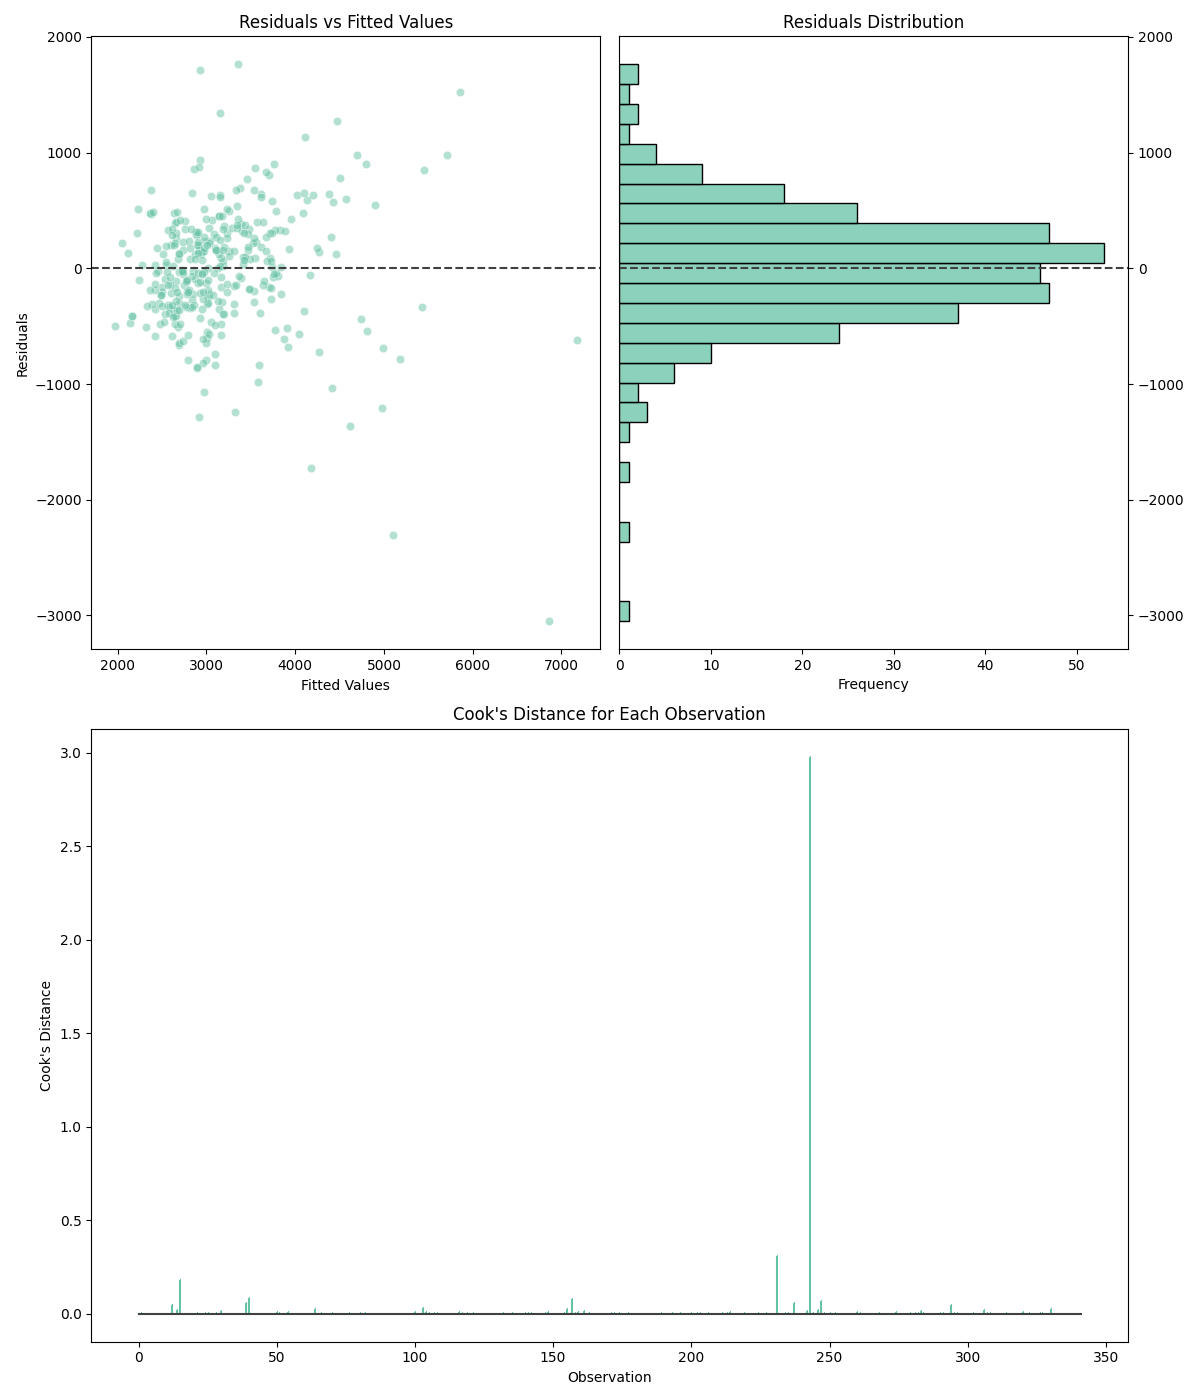
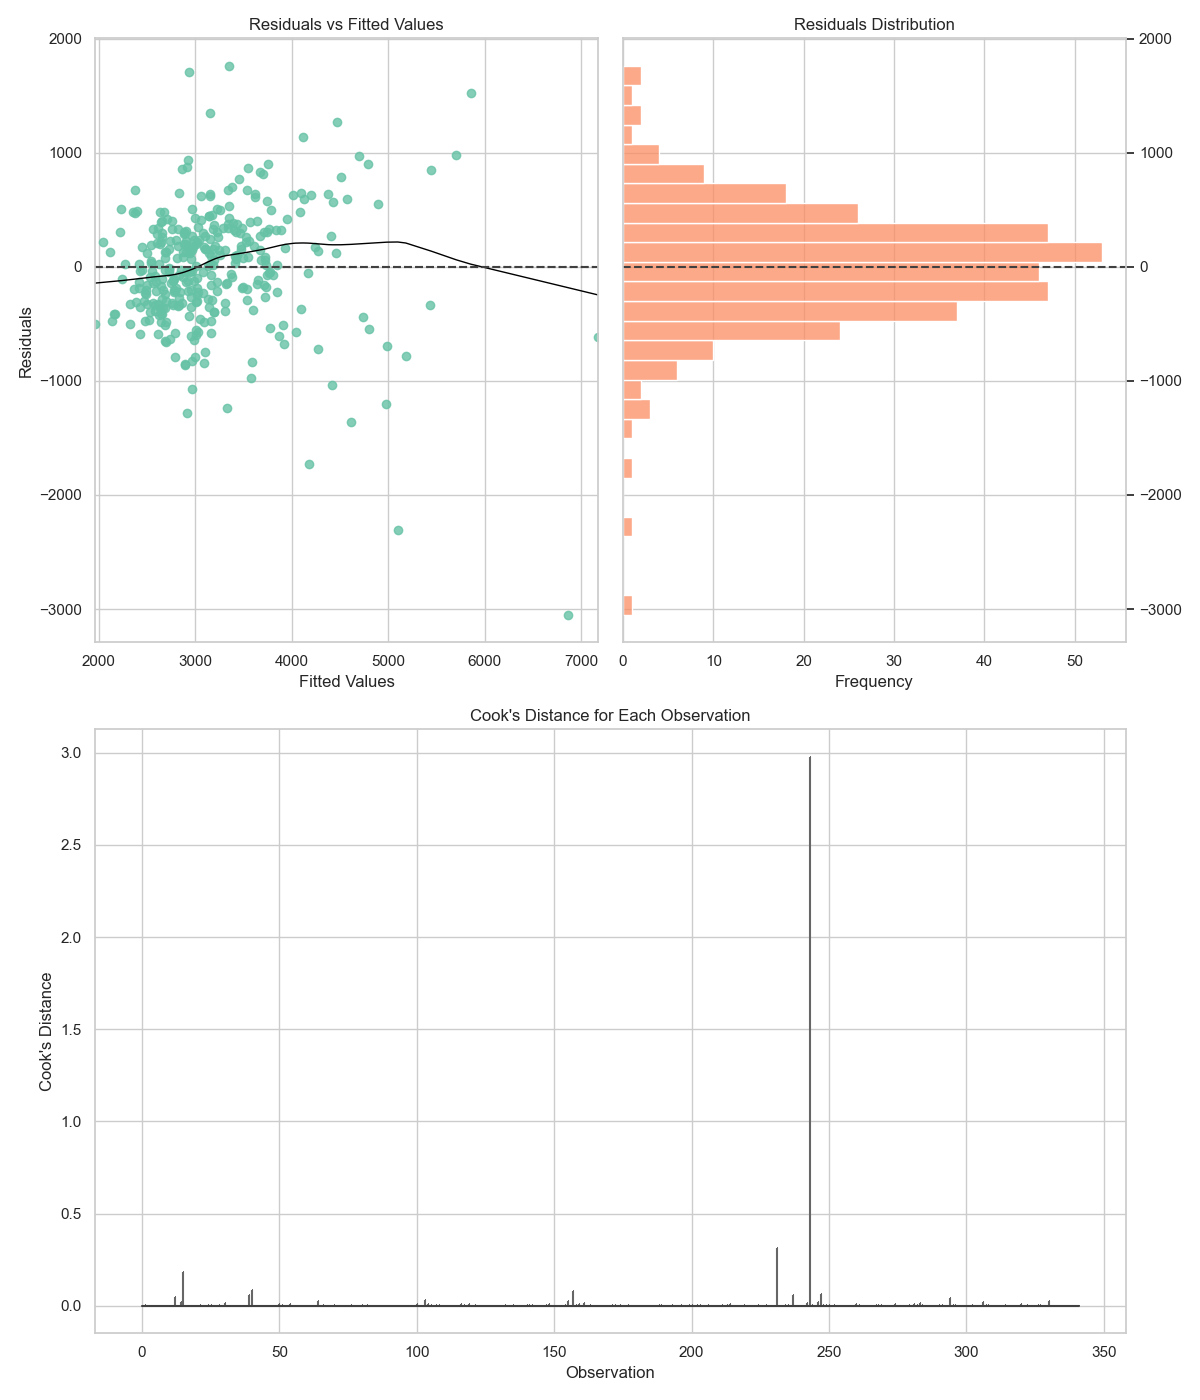
restyle plots

diff --git a/src/analysis/phase_1/plots.py b/src/analysis/phase_1/plots.py
@@ -24,8 +24,7 @@ def plots_station_no_station(df: pd.DataFrame) -> None:
 
     # Create boxplot to visualize the difference in m² prices
     plt.figure(figsize=(10, 6))
-    ax = sns.boxplot(data=df, x='has_station', y='m2_price', hue='has_station')
-    sns.boxplot(data=df, x='has_station', y='m2_price', hue='has_station')
+    ax = sns.boxplot(data=df, x='has_station', y='m2_price', hue='has_station', palette='Set2')
     plt.xlabel('Has Train Station')
     plt.ylabel('Average m² Price')
     plt.title('Comparison of m² Prices by Presence of Train Stations')
@@ -38,35 +37,57 @@ def plots_station_no_station(df: pd.DataFrame) -> None:
 
 def scatter_plots(df: pd.DataFrame) -> None:
     """
-    Create scatter plots of variables against m2_price.
+    Create scatter plots of variables along with distributions against m2_price and log variables against log_m2_price.
 
     Parameters:
         df: DataFrame with the main dataset
-    
+        output_path: Path to save the resulting plots
+
     Returns:
         None
     """
-    variables = ['log_avg_income', 'homes_per_capita', 'log_multy_family', 'log_distance']
+    variables = ['avg_income', 'homes_per_capita', 'multy_family', 'distance_to_urban_center']
+    log_variables = ['log_avg_income', 'homes_per_capita', 'log_multy_family', 'log_distance']
 
-    fig, axes = plt.subplots(nrows=4, ncols=2, figsize=(15, 20))
+    # First figure for original variables
+    fig, axes = plt.subplots(nrows=4, ncols=2, figsize=(15, 22))
 
-    axes = axes.flatten()
+    palette = sns.color_palette('Set2')
 
     for i, var in enumerate(variables):
-        axes[i].scatter(df[var], df['log_m2_price'], alpha=0.7, edgecolor='k')
-        axes[i].set_xlabel(var)
-        axes[i].set_ylabel('log_m2_price')
-        axes[i].set_title(f'{var} vs log_m2_price')
-    
-    for i in range(4, 8):
-        sns.histplot(df[variables[i-4]], kde=True, ax=axes[i])
-        axes[i].set_xlabel(variables[i-4])
-        axes[i].set_ylabel('Frequency')
-        axes[i].set_title(f'Distribution of {variables[i-4]}')
+        # Scatter plot
+        sns.scatterplot(x=df[var], y=df['m2_price'], ax=axes[i, 0], color=palette[1], edgecolor='k', alpha=0.7)
+        axes[i, 0].set_xlabel(var)
+        axes[i, 0].set_ylabel('m2_price')
+        axes[i, 0].set_title(f'{var} vs m2_price')
+        
+        # Distribution plot
+        sns.histplot(df[var], kde=True, ax=axes[i, 1], color=palette[0])
+        axes[i, 1].set_xlabel(var)
+        axes[i, 1].set_ylabel('Frequency')
+        axes[i, 1].set_title(f'Distribution of {var}')
 
     plt.tight_layout(rect=[0, 0, 1, 0.96])
+    plt.savefig(os.path.join(output_path, 'scatter_plots_original.png'))
 
-    plt.savefig(os.path.join(output_path, 'scatter_plots.png'))
+    # Second figure for log-transformed variables
+    fig, axes = plt.subplots(nrows=4, ncols=2, figsize=(15, 22))
+
+    for i, log_var in enumerate(log_variables):
+        # Scatter plot
+        sns.scatterplot(x=df[log_var], y=df['log_m2_price'], ax=axes[i, 0], color=palette[1], edgecolor='k', alpha=0.7)
+        axes[i, 0].set_xlabel(log_var)
+        axes[i, 0].set_ylabel('log_m2_price')
+        axes[i, 0].set_title(f'{log_var} vs log_m2_price')
+        
+        # Distribution plot
+        sns.histplot(df[log_var], kde=True, ax=axes[i, 1], color=palette[0])
+        axes[i, 1].set_xlabel(log_var)
+        axes[i, 1].set_ylabel('Frequency')
+        axes[i, 1].set_title(f'Distribution of {log_var}')
+
+    plt.tight_layout(rect=[0, 0, 1, 0.96])
+    plt.savefig(os.path.join(output_path, 'scatter_plots_log.png'))
 
 def plot_distribution(df: pd.DataFrame) -> None:
     """
@@ -80,12 +101,14 @@ def plot_distribution(df: pd.DataFrame) -> None:
     """
     _, axes = plt.subplots(nrows=1, ncols=2, figsize=(15, 6))
 
-    sns.histplot(df['m2_price'], kde=True, ax=axes[0], bins=30)
+    palette = sns.color_palette('Set2')
+
+    sns.histplot(df['m2_price'], kde=True, ax=axes[0], bins=30, color=palette[0])
     axes[0].set_title('Distribution of m2_price')
     axes[0].set_xlabel('m2_price')
     axes[0].set_ylabel('Frequency')
 
-    sns.histplot(df['log_m2_price'], kde=True, ax=axes[1], bins=30)
+    sns.histplot(df['log_m2_price'], kde=True, ax=axes[1], bins=30, color=palette[0])
     axes[1].set_title('Distribution of log_m2_price')
     axes[1].set_xlabel('log_m2_price')
     axes[1].set_ylabel('Frequency')
@@ -163,7 +186,8 @@ def visualize_model_scores(results: dict, title: str) -> None:
         axes[0].set_xlabel("Log10 (VIF)")
         axes[0].set_ylabel(" ")
 
-        axes[0].axvline(x=0.699, color='#404040', linewidth=2, linestyle='--')
+        axes[0].axvline(x=0.699, color='#404040', linewidth=2, linestyle='--', label='VIF = 5')
+        axes[0].legend()
 
     # Condition Indices
     cond_indices_list = [{
@@ -173,11 +197,12 @@ def visualize_model_scores(results: dict, title: str) -> None:
 
     if cond_indices_list:
         cond_indices_data = pd.DataFrame(cond_indices_list)
-        sns.barplot(x='Condition Index', y='Model', data=cond_indices_data, ax=axes[1], width=0.6 if 'Non-Log' in title else 0.8)
-        axes[1].set_title(f'Log-Scaled Condition Indices for {title}')
+        sns.barplot(x='Condition Index', y='Model', data=cond_indices_data, ax=axes[1], width=0.6, hue='Model')
+        axes[1].set_title(f'Log-Scaled Largest Condition Indices for {title}')
         axes[1].set_xlabel("Log10 (Condition Index)")
         axes[1].set_ylabel(" ")
-        axes[1].axvline(x=1.477, color='gray', linewidth=2, linestyle='--')
+        axes[1].axvline(x=1.477, color='gray', linewidth=2, linestyle='--', label='Condition Index = 30')
+        axes[1].legend()
 
     # BIC Scores
     bic_list = [{
@@ -187,7 +212,7 @@ def visualize_model_scores(results: dict, title: str) -> None:
 
     if bic_list:
         bic_data = pd.DataFrame(bic_list)
-        sns.barplot(x='BIC', y='Model', data=bic_data, ax=axes[2], width=0.6 if 'Non-Log' in title else 0.8)
+        sns.barplot(x='BIC', y='Model', data=bic_data, ax=axes[2], width=0.6, hue='Model')
         axes[2].set_title(f'BIC Scores for {title}')
         axes[2].set_xlabel("BIC Score")
         axes[2].set_ylabel(" ")
@@ -219,7 +244,7 @@ def create_plots(df: pd.DataFrame) -> None:
     non_log_scores, log_scores, dropped_outliers_scores, centered_log_scores = get_model_scores(df)
     visualize_model_scores(non_log_scores, 'Non-Log Models')
     visualize_model_scores(log_scores, 'Log Models')
-    visualize_model_scores(dropped_outliers_scores, 'Log Models Dropped Outliers')
+    visualize_model_scores(dropped_outliers_scores, 'Log Models with Dropped Outliers')
     visualize_model_scores(centered_log_scores, 'Centered Log Models')
 
     plt.close('all')

diff --git a/src/analysis/phase_2/plots.py b/src/analysis/phase_2/plots.py
@@ -9,26 +9,6 @@ from src.analysis.utils import dir_path, phase_2_log
 
 output_path = os.path.join(dir_path, '../../output/figures/phase_2')
 
-def log_corr_heatmap(df: pd.DataFrame) -> None:
-    """
-    Create a heatmap of the correlation matrix of the log-transformed variables.
-
-    Parameters:
-        df: DataFrame with the Phase 2 dataset
-    
-    Returns:
-        None
-    """
-    variables = phase_2_log
-
-    plt.figure(figsize=(14, 12))
-    sns.heatmap(df[variables].corr(), annot=True, fmt='.2f', 
-                cmap='BrBG', linewidths=.5, vmin=-1, vmax=1)
-    plt.xticks(rotation=45)
-    # plt.title('Correlation Matrix of Log-Transformed Variables')
-
-    plt.savefig(os.path.join(output_path, 'log_corr_heatmap.png'))
-
 def visualize_model_scores(results: dict, title: str) -> None:
     """
     Visualize the VIFs, condition indices, and BIC scores for the models.
@@ -60,7 +40,8 @@ def visualize_model_scores(results: dict, title: str) -> None:
         axes[0].set_xlabel("Log10 (VIF)")
         axes[0].set_ylabel(" ")
 
-        axes[0].axvline(x=0.699, color='#404040', linewidth=2, linestyle='--')
+        axes[0].axvline(x=0.699, color='#404040', linewidth=2, linestyle='--', label='VIF = 5')
+        axes[0].legend()
 
     # Condition Indices
     cond_indices_list = [{
@@ -70,11 +51,12 @@ def visualize_model_scores(results: dict, title: str) -> None:
 
     if cond_indices_list:
         cond_indices_data = pd.DataFrame(cond_indices_list)
-        sns.barplot(x='Condition Index', y='Model', data=cond_indices_data, ax=axes[1], width=0.6 if 'Non-Log' in title else 0.8)
+        sns.barplot(x='Condition Index', y='Model', data=cond_indices_data, ax=axes[1], width=0.6, hue='Model')
         axes[1].set_title(f'Log-Scaled Condition Indices for {title}')
         axes[1].set_xlabel("Log10 (Condition Index)")
         axes[1].set_ylabel(" ")
-        axes[1].axvline(x=1.477, color='gray', linewidth=2, linestyle='--')
+        axes[1].axvline(x=1.477, color='gray', linewidth=2, linestyle='--', label='Condition Index = 30')
+        axes[1].legend()
 
     # BIC Scores
     bic_list = [{
@@ -84,7 +66,7 @@ def visualize_model_scores(results: dict, title: str) -> None:
 
     if bic_list:
         bic_data = pd.DataFrame(bic_list)
-        sns.barplot(x='BIC', y='Model', data=bic_data, ax=axes[2], width=0.6 if 'Non-Log' in title else 0.8)
+        sns.barplot(x='BIC', y='Model', data=bic_data, ax=axes[2], width=0.6, hue='Model')
         axes[2].set_title(f'BIC Scores for {title}')
         axes[2].set_xlabel("BIC Score")
         axes[2].set_ylabel(" ")
@@ -95,6 +77,50 @@ def visualize_model_scores(results: dict, title: str) -> None:
     filename = title.lower().replace('-', '_').replace(' ', '_')
 
     plt.savefig(os.path.join(output_path, f'model_scores/{filename}_scores.png'))
+
+def traffic_plots(df: pd.DataFrame) -> None:
+    """
+    Create a plot with traffic vs m2_price and log_traffic vs log_m2_price along with their distributions.
+
+    Parameters:
+        df: DataFrame with the main dataset
+        output_path: Path to save the resulting plot
+
+    Returns:
+        None
+    """
+    fig, axes = plt.subplots(nrows=2, ncols=2, figsize=(15, 12))
+
+    palette = sns.color_palette('Set2')
+
+    # First row for traffic vs m2_price
+    # Scatter plot
+    sns.scatterplot(x=df['traffic'], y=df['m2_price'], ax=axes[0, 0], color=palette[1], edgecolor='k', alpha=0.7)
+    axes[0, 0].set_xlabel('traffic')
+    axes[0, 0].set_ylabel('m2_price')
+    axes[0, 0].set_title('traffic vs m2_price')
+    
+    # Distribution plot
+    sns.histplot(df['traffic'], kde=True, ax=axes[0, 1], color=palette[0])
+    axes[0, 1].set_xlabel('traffic')
+    axes[0, 1].set_ylabel('Frequency')
+    axes[0, 1].set_title('Distribution of traffic')
+
+    # Second row for log_traffic vs log_m2_price
+    # Scatter plot
+    sns.scatterplot(x=df['log_traffic'], y=df['log_m2_price'], ax=axes[1, 0], color=palette[1], edgecolor='k', alpha=0.7)
+    axes[1, 0].set_xlabel('log_traffic')
+    axes[1, 0].set_ylabel('log_m2_price')
+    axes[1, 0].set_title('log_traffic vs log_m2_price')
+    
+    # Distribution plot
+    sns.histplot(df['log_traffic'], kde=True, ax=axes[1, 1], color=palette[0])
+    axes[1, 1].set_xlabel('log_traffic')
+    axes[1, 1].set_ylabel('Frequency')
+    axes[1, 1].set_title('Distribution of log_traffic')
+
+    plt.tight_layout(rect=[0, 0, 1, 0.96])
+    plt.savefig(os.path.join(output_path, 'traffic_plots.png'))
 
 def create_plots(df: pd.DataFrame) -> None:
     """
@@ -107,12 +133,12 @@ def create_plots(df: pd.DataFrame) -> None:
         None
     """
     logging.info("Creating and saving figures for Phase 2...")
-    log_corr_heatmap(df)
+    traffic_plots(df)
 
     log_results, dropped_results, centered_results = get_model_scores(df)
 
     visualize_model_scores(log_results, 'Log Models')
-    visualize_model_scores(dropped_results, 'Log Models Dropped Outliers')
+    visualize_model_scores(dropped_results, 'Log Models with Dropped Outliers')
     visualize_model_scores(centered_results, 'Centered Log Models')
 
     plt.close('all')

diff --git a/src/analysis/utils.py b/src/analysis/utils.py
@@ -51,12 +51,15 @@ def residual_analysis(model: sm.regression.linear_model.RegressionResultsWrapper
     residuals = model.resid
     mean_residuals = np.mean(residuals)
 
+    #matplotlib Pastel1
+    palette = sns.color_palette("Set2")
+
     plt.figure(figsize=(12, 14)) 
     gs = plt.GridSpec(2, 2, height_ratios=[1, 1])
 
     # Residuals vs. Fitted Values
     ax1 = plt.subplot(gs[0, 0])
-    sns.scatterplot(x=fitted_vals, y=residuals, alpha=0.5, ax=ax1)
+    sns.residplot(x=fitted_vals, y=residuals, ax=ax1, lowess=True, line_kws={'color': 'black', 'linewidth': 1}, scatter_kws={'color': palette[0]})
     ax1.axhline(y=mean_residuals, color='#404040', linestyle='--')
     ax1.set_xlabel('Fitted Values')
     ax1.set_ylabel('Residuals')
@@ -64,7 +67,7 @@ def residual_analysis(model: sm.regression.linear_model.RegressionResultsWrapper
 
     # Histogram of residuals
     ax2 = plt.subplot(gs[0, 1], sharey=ax1)
-    sns.histplot(y=residuals, ax=ax2)
+    sns.histplot(y=residuals, ax=ax2, color=palette[1])
     ax2.axhline(y=mean_residuals, color='#404040', linestyle='--')
     ax2.set_title('Residuals Distribution')
     ax2.set_xlabel('Frequency')
@@ -72,14 +75,19 @@ def residual_analysis(model: sm.regression.linear_model.RegressionResultsWrapper
     ax2.yaxis.set_label_position("right")
     ax2.yaxis.tick_right()
 
+    # Reset the color palette for the stem plot
+    sns.set_theme(style="whitegrid", palette="Accent")
+
     # Cook's Distance
     ax3 = plt.subplot(gs[1, :])
     cooks = model.get_influence().cooks_distance[0]
-    ax3.stem(np.arange(len(cooks)), cooks, markerfmt=",")
+    ax3.stem(np.arange(len(cooks)), cooks, markerfmt=",", linefmt='C7-')
     ax3.get_lines()[1].set_color("#404040")
     ax3.set_xlabel('Observation')
     ax3.set_ylabel("Cook's Distance")
     ax3.set_title("Cook's Distance for Each Observation")
+
+    sns.set_theme(style="whitegrid", palette="Pastel1")
 
     plt.tight_layout()
 

diff --git a/src/analysis/main.py b/src/analysis/main.py
@@ -91,7 +91,8 @@ def run_analysis(phase: list[int]) -> None:
     create_main_tables(main)
 
     # Set the color palette
-    sns.set_palette('Set2')
+    #sns.set_palette('Accent')
+    sns.set_theme(style="whitegrid", palette="Pastel1")
     
     if 1 in phase:
         run_phase_1(phase_1, geojson_data)
